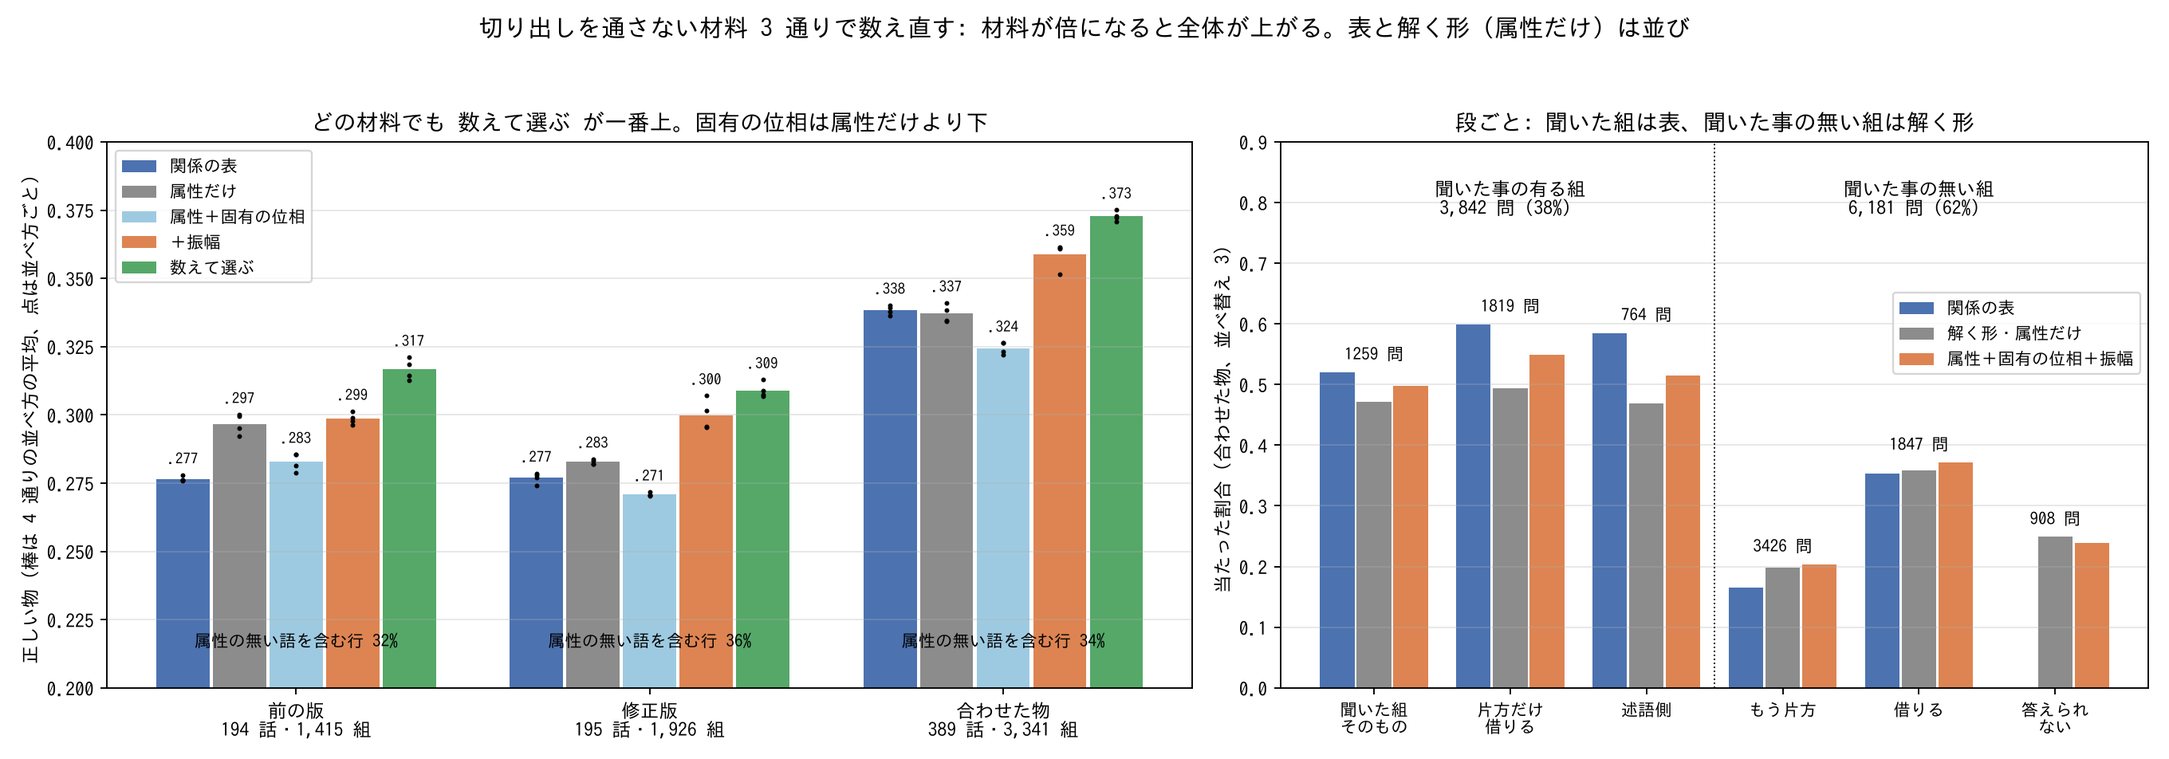
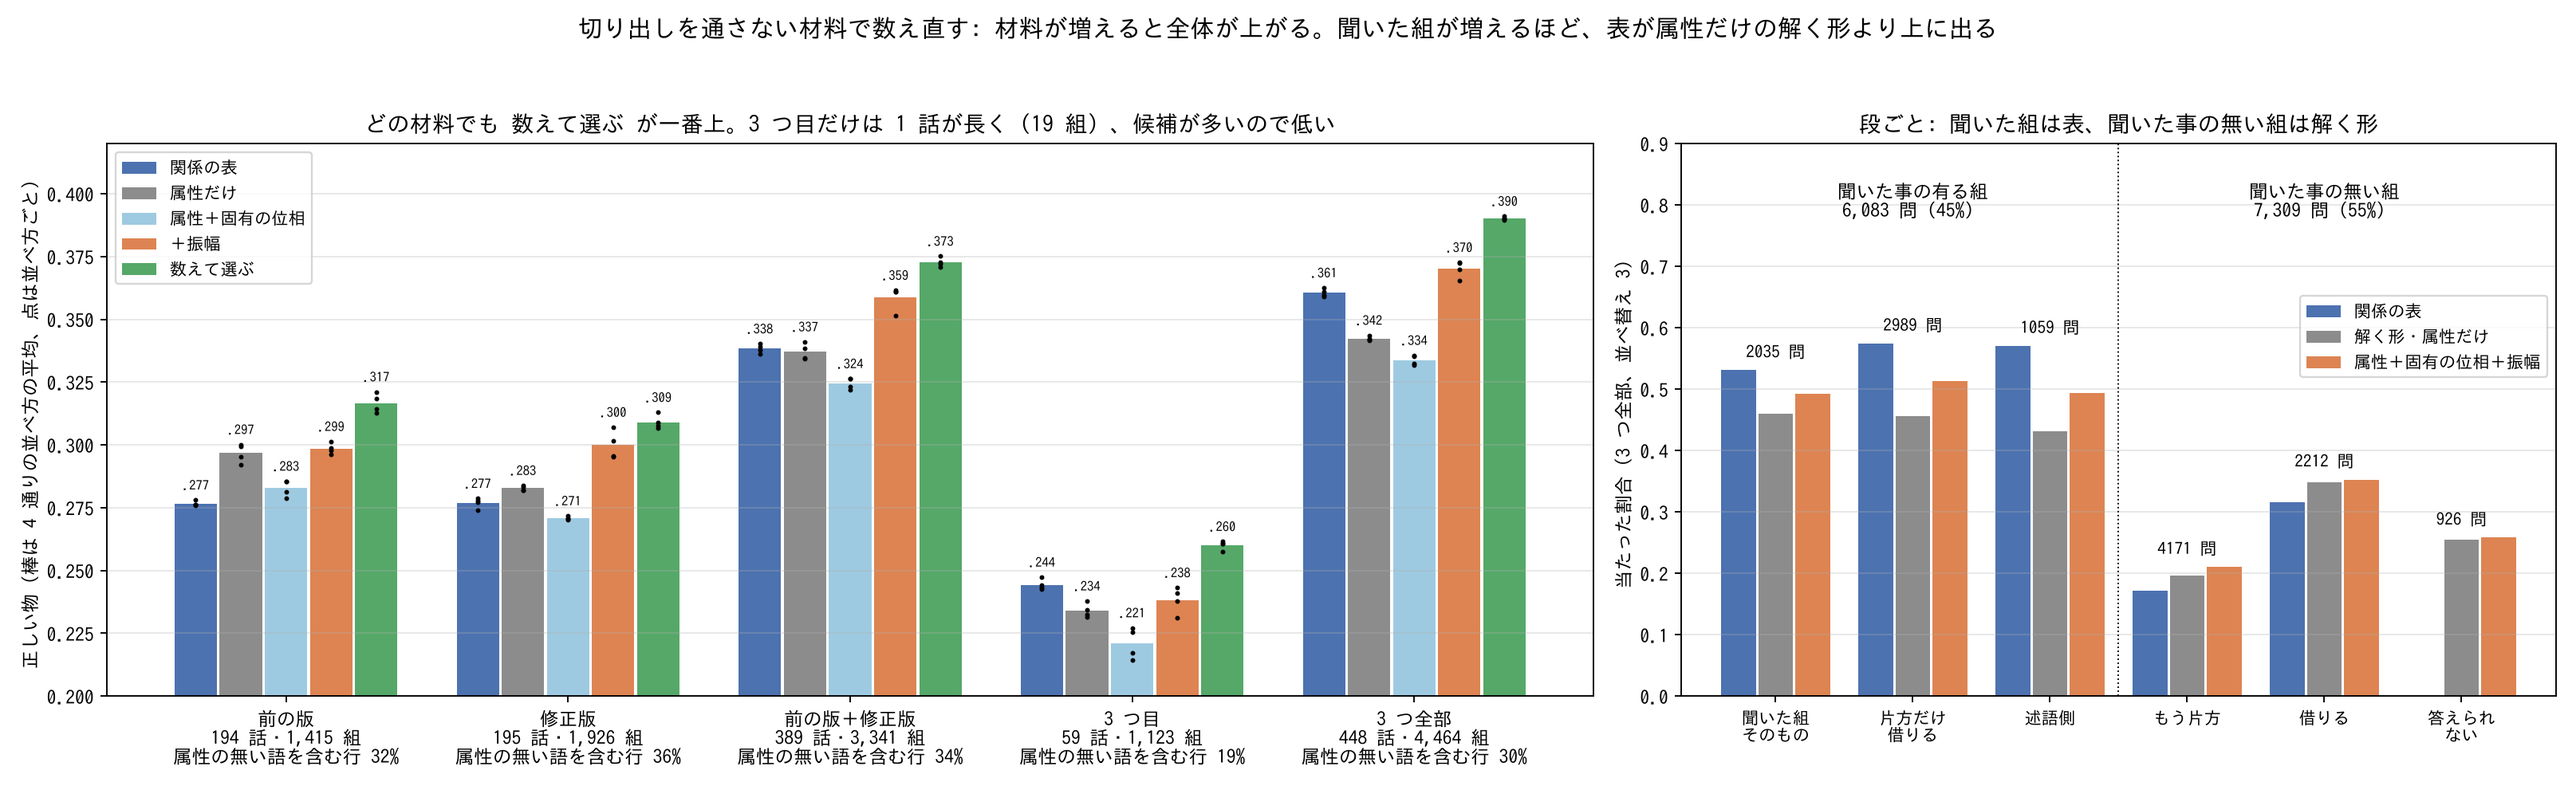
I49zp: 3 つ目のテキストと 3 つ全部の結果を足す（図を 5 通りの材料に描き直し）
Claude-Session: https://claude.ai/code/session_014ak5wfaaDLiGgzRytpjmEr

diff --git a/tools/fig_i49zp_three_materials.py b/tools/fig_i49zp_three_materials.py
@@ -1,4 +1,4 @@
-"""I49zp の図（2 枚目）: 切り出しを通さない材料 3 通り（前の版・修正版・合わせた物）での、形ごとの当たり。
+"""I49zp の図（2 枚目）: 切り出しを通さない材料 5 通り（前の版・修正版・その 2 つ・3 つ目・3 つ全部）での、形ごとの当たり。
 
 数は PC で数えた集計値をそのまま置いている。棒は 4 通りの並べ方の平均、点は並べ方ごと。
 使い方: python tools/fig_i49zp_three_materials.py 出力.png
@@ -21,15 +21,17 @@ FORMS = ["関係の表", "属性だけ", "属性＋固有の位相", "＋振幅"
 COL = ["#4c72b0", "#8c8c8c", "#9ecae1", "#dd8452", "#55a868"]
 MAT = {"前の版\n194 話・1,415 組": [[.2761, .2994, .2855, .2978, .3185], [.2761, .2921, .2855, .2989, .3126], [.2759, .2952, .2789, .2963, .3143], [.2780, .3001, .2813, .3013, .3211]],
        "修正版\n195 話・1,926 組": [[.2786, .2833, .2707, .2953, .3075], [.2778, .2819, .2703, .3070, .3129], [.2771, .2838, .2717, .3017, .3089], [.2741, .2819, .2705, .2956, .3067]],
-       "合わせた物\n389 話・3,341 組": [[.3362, .3343, .3219, .3515, .3709], [.3379, .3347, .3231, .3609, .3721], [.3392, .3384, .3263, .3615, .3728], [.3402, .3410, .3263, .3611, .3751]]}
-# 合わせた物・並べ替え 3、段ごと（表の当たり、解く形・属性だけ、＋振幅、問い）
-LEVELS = [("聞いた組\nそのもの", 655, 593, 627, 1259), ("片方だけ\n借りる", 1090, 899, 998, 1819), ("述語側", 447, 358, 393, 764),
-          ("もう片方", 566, 680, 698, 3426), ("借りる", 652, 662, 686, 1847), ("答えられ\nない", 0, 226, 217, 908)]
-NOATTR = [("前の版", 32.0), ("修正版", 35.9), ("合わせた物", 34.2)]
+       "前の版＋修正版\n389 話・3,341 組": [[.3362, .3343, .3219, .3515, .3709], [.3379, .3347, .3231, .3609, .3721], [.3392, .3384, .3263, .3615, .3728], [.3402, .3410, .3263, .3611, .3751]],
+       "3 つ目\n59 話・1,123 組": [[.2473, .2315, .2143, .2410, .2606], [.2431, .2378, .2253, .2378, .2615], [.2425, .2342, .2173, .2312, .2606], [.2443, .2324, .2271, .2431, .2576]],
+       "3 つ全部\n448 話・4,464 組": [[.3589, .3415, .3323, .3654, .3894], [.3625, .3421, .3317, .3726, .3910], [.3611, .3436, .3356, .3724, .3901], [.3597, .3418, .3353, .3699, .3903]]}
+# 3 つ全部・並べ替え 3、段ごと（表の当たり、解く形・属性だけ、＋振幅、問い）
+LEVELS = [("聞いた組\nそのもの", 1080, 935, 1001, 2035), ("片方だけ\n借りる", 1716, 1363, 1535, 2989), ("述語側", 604, 456, 522, 1059),
+          ("もう片方", 718, 818, 877, 4171), ("借りる", 699, 769, 780, 2212), ("答えられ\nない", 0, 236, 239, 926)]
+NOATTR = [32.0, 35.9, 34.2, 19.2, 30.4]
 
 
 def main(out):
-    fig, ax = plt.subplots(1, 2, figsize=(16, 5.6), gridspec_kw=dict(width_ratios=[1.25, 1]))
+    fig, ax = plt.subplots(1, 2, figsize=(19, 5.8), gridspec_kw=dict(width_ratios=[1.7, 1]))
     a = ax[0]
     w = .16
     for mi, (name, rows) in enumerate(MAT.items()):
@@ -38,13 +40,12 @@ def main(out):
             ys = [r[k] for r in rows]
             a.bar(x, sum(ys) / 4, w * .94, color=COL[k], label=FORMS[k] if mi == 0 else None)
             a.plot([x] * 4, ys, ".", color="k", ms=3)
-            a.text(x, max(ys) + .004, ("%.3f" % (sum(ys) / 4))[1:], ha="center", fontsize=8)
-        a.text(mi, .215, "属性の無い語を含む行 %.0f%%" % NOATTR[mi][1], ha="center", fontsize=9)
-    a.set_xticks(range(3))
-    a.set_xticklabels(list(MAT))
-    a.set_ylim(.2, .4)
+            a.text(x, max(ys) + .004, ("%.3f" % (sum(ys) / 4))[1:], ha="center", fontsize=7)
+    a.set_xticks(range(len(MAT)))
+    a.set_xticklabels(["%s\n属性の無い語を含む行 %.0f%%" % (m, NOATTR[i]) for i, m in enumerate(MAT)])
+    a.set_ylim(.2, .42)
     a.set_ylabel("正しい物（棒は 4 通りの並べ方の平均、点は並べ方ごと）")
-    a.set_title("どの材料でも 数えて選ぶ が一番上。固有の位相は属性だけより下")
+    a.set_title("どの材料でも 数えて選ぶ が一番上。3 つ目だけは 1 話が長く（19 組）、候補が多いので低い")
     a.grid(axis="y", alpha=.3)
     a.legend(fontsize=9, loc="upper left")
     a = ax[1]
@@ -55,16 +56,16 @@ def main(out):
         a.bar(i + w, p / n, w * .94, color=COL[3], label="属性＋固有の位相＋振幅" if i == 0 else None)
         a.text(i, max(t, s, p) / n + .02, "%d 問" % n, ha="center", fontsize=9)
     a.axvline(2.5, color="k", lw=.8, ls=":")
-    a.text(1, .78, "聞いた事の有る組\n3,842 問（38%）", ha="center", fontsize=10)
-    a.text(4, .78, "聞いた事の無い組\n6,181 問（62%）", ha="center", fontsize=10)
+    a.text(1, .78, "聞いた事の有る組\n6,083 問（45%）", ha="center", fontsize=10)
+    a.text(4, .78, "聞いた事の無い組\n7,309 問（55%）", ha="center", fontsize=10)
     a.set_xticks(range(len(LEVELS)))
     a.set_xticklabels([l[0] for l in LEVELS], fontsize=9)
     a.set_ylim(0, .9)
-    a.set_ylabel("当たった割合（合わせた物、並べ替え 3）")
+    a.set_ylabel("当たった割合（3 つ全部、並べ替え 3）")
     a.set_title("段ごと: 聞いた組は表、聞いた事の無い組は解く形")
     a.grid(axis="y", alpha=.3)
     a.legend(fontsize=9, loc="upper right", bbox_to_anchor=(1, .74))
-    fig.suptitle("切り出しを通さない材料 3 通りで数え直す: 材料が倍になると全体が上がる。表と解く形（属性だけ）は並び", fontsize=13)
+    fig.suptitle("切り出しを通さない材料で数え直す: 材料が増えると全体が上がる。聞いた組が増えるほど、表が属性だけの解く形より上に出る", fontsize=13)
     fig.tight_layout(rect=(0, 0, 1, .94))
     fig.savefig(out, dpi=170)
 

diff --git a/docs/experiments_index.md b/docs/experiments_index.md
@@ -94,7 +94,7 @@
 | 属性の波に、語ごとの固有の位相を足す（I49zm。持ち主の案） | 属性で大枠、固有の位相で「前に聞いた語との一致」を見れば、似た語を選び分けられる | 解く形 .408 → .414、.398 → .412（z +1.8 / +3.9）。表（.432 / .453）に届かず、表と組んでも積み上がらない（.444 → .444、.464 → .461） | 上がるのは聞いた事の有る組の段だけ。本数が少ない固有の位相を強く混ぜると下がる。直交の位相は、もとの語の波より良い |
 | 固有の位相を足せば、属性が近い語に負ける形は減る、という見込み（I49zn） | — | 負ける問いは 27.0% → 26.3%、30.0% → 29.0%。1 位と正解の近さは .37 のまま | 「だれが」では減り、「どうした」では増える。固有の位相は前に聞いた語を推すだけで、似た語どうしの選び分けにはならない |
 | 外れでも、固有の位相の答えの方が違和感が少ない、という見込み（I49zo。ローカル AI が 1〜5 で採点） | — | 並び（2.38 対 2.36、2.30 対 2.24）。正解の組でも平均 2.8 / 2.7 | 問いの材料に、3 つ組に切る所で崩れた物と、席に座れない候補が混ざっている。採点（隠した語と同じか）の外にも自然な答えが有る。全部の問いと答えをテキストに出す道具は `tools/i49zo_dump_answers.py` |
-| 今までの材料の 3 つ組は正しい、という前提（I49zo の続き・I49zp） | — | 外れ。ローカル AI の自然さは 自作の話 2.74、青空 1.47。切り出しを通さない材料（4.35）で数え直すと、表と解く形は並び（合わせた材料で .338 と .337）、数えて選ぶ .373 が一番上。固有の位相は属性だけより下 | 文から 3 つ組を切り出す所が崩れていた（「に」「で」の語が「何を」に入る、名前の最後だけ残る）。表が強く見えたのは、聞いた組の問いが多い材料だったから。新しい試しは `tools/i49zp_text_talks_run.py` の形の材料でも数える |
+| 今までの材料の 3 つ組は正しい、という前提（I49zo の続き・I49zp） | — | 外れ。ローカル AI の自然さは 自作の話 2.74、青空 1.47。切り出しを通さない材料（4.35）で数え直すと、表と解く形は並び（合わせた材料で .338 と .337）、数えて選ぶ .373 が一番上。固有の位相は属性だけより下。3 つ目を足した 448 話・4,464 組では 表 .361、属性だけ .342、数えて選ぶ .390、振幅の形と組んで .395 | 文から 3 つ組を切り出す所が崩れていた（「に」「で」の語が「何を」に入る、名前の最後だけ残る）。表が強く見えたのは、聞いた組の問いが多い材料だったから。新しい試しは `tools/i49zp_text_talks_run.py` の形の材料でも数える |
 | 聞いた回数の多い語が勝っている、という疑い（I49y） | — | 外れ。1 位の方が多く聞いた語だったのは 44% | 1 位を取るのは、正解に属性が似た別の語 |
 | 局所の穴埋めの工夫（I48、多数） | 助詞・語尾の当たりを上げる | どの工夫も ±.014 の中 | 述語から口を開く格の枠が要る（`i48_working_parts.md` 2 節） |
 | 位置をぼかす畳み込み（I48ab） | 位置が 1 つずれても近い波 | 白い拡散に負けた | ぼんやり覚える使い方では未試験 |

diff --git a/docs/i49_inner_vessel.md b/docs/i49_inner_vessel.md
@@ -2028,3 +2028,22 @@ I49t の続き。元の答え方は変えずに、上位の候補だけを「流
 - 修正版は、主語が場面ごとの職業の人になり、属性を持たない語を含む行が 36% に増えた（「だれが」の席で 485 回）。「何を」「どうした」の当たりは低い（表で .20 と .15）。1 話の語が 19.8 と多く、候補が多い。
 - 手で置いた値は 43 節と同じ（区切りの決まりは、空行の無いテキストだけに使う）。
 - 追記（合わせた物での直の比べ、4 通りの並べ方）: 属性＋固有の位相＋振幅 は、表に勝つ（z +4.0〜+6.1）、属性だけにも勝つ（z +5.1〜+7.9）。表を使わない形が、表を確かな差で上回ったのは、これが初めて。数えて選ぶ（解く側は属性だけ）は、その上（z +3.2〜+5.5）。振幅を直す形は、今までの決まりから外れる試しで、採用は未定。直す速さ（.01）は手で置いた値。
+
+### 43 節の続き 2: 3 つ目のテキストと、3 つ全部（同じ道具、同じ日）
+
+持ち主が 3 つ目のテキスト（1,275 行、20 行ずつの 63 場面）をくれた。同じ場面の重なり 4 つは外した。3 つ目だけで 59 話・3 つ組 1,123 個（自然さ 4.32）、3 つ全部で 448 話・4,464 個。3 つ目の 161 行は、前の 2 つと同じ文。図は上の物を 5 通りの材料に描き直した。
+
+| 形（4 通りの並べ方の平均） | 3 つ目だけ | 3 つ全部 |
+|---|---|---|
+| 関係の表 | .244 | .361 |
+| 解く形・属性だけ | .234 | .342 |
+| 属性＋固有の位相 | .221 | .334 |
+| 属性＋固有の位相＋振幅 | .238 | .370 |
+| 数えて選ぶ | .260 | .390 |
+| 数えて選ぶ・振幅の形と | .259 | .395 |
+
+- 3 つ全部が、切り出しを通さない材料での今までの一番上。数えて選ぶは表に z +12.0〜+12.6。振幅の形と組むと、さらに z +1.2〜+3.0（並べ替えた 3 通りでは揺れの外）。
+- 想定外: 3 つ全部では、解く形・属性だけが表より下に出た（z −4.6〜−5.5）。前の 2 つを合わせた時は並びだった。聞いた事の有る組の問いが 38% から 45% に増え、そこは表が強いため。「材料が増えるほど表が有利になる」と読める。
+- 固有の位相だけでは、ここでも属性だけより下（z −2.4〜−3.9）。振幅を直すと属性だけを越え（z +7.9〜+10.2）、表も越える（z +1.9〜+3.3）。
+- 3 つ目だけは点が低い（数えて選ぶ .26）。1 話が 19 組・語 34.6 と長く、候補が多い。属性の無い語を含む行は 19% で、3 つの中で一番少ないのに低いので、ここでは候補の数の方が効いている。
+- 手で置いた値は 43 節と同じ。
